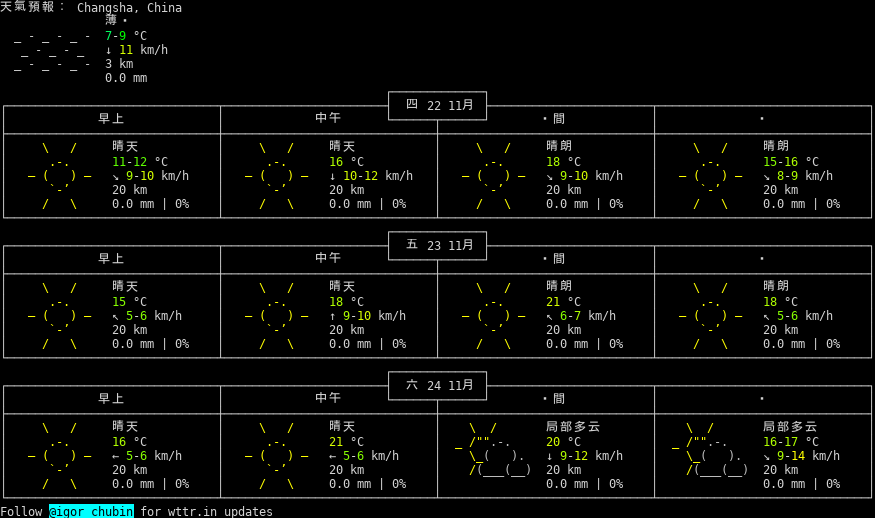
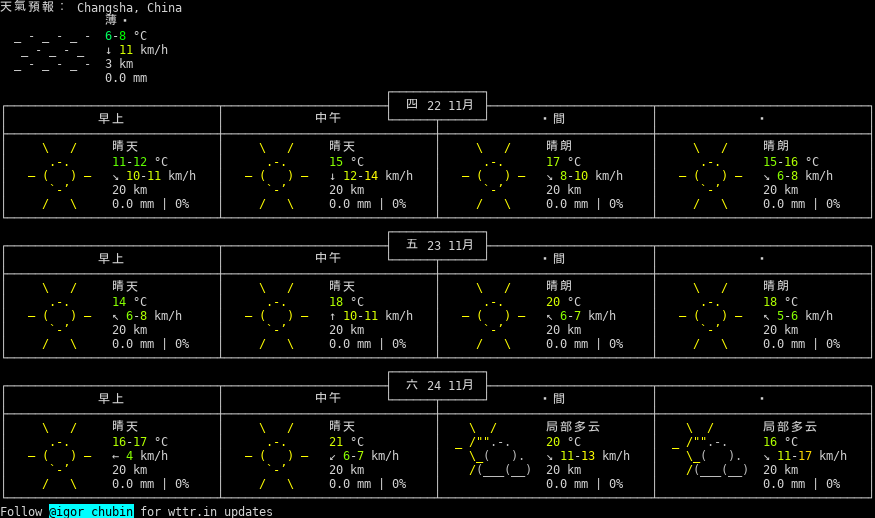
update Today's log:)

diff --git a/README.md b/README.md
@@ -1510,3 +1510,4 @@ My Shell_script learning note
 * 2018年11月22日 星期Thu AM 3:00 CST   天气: 9-11°C (  _`/"".-.     Light Rain Shower, Mist)
 * 2018年11月22日 星期Thu AM 3:20 CST   天气: 9-11°C (  _`/"".-.     Light Rain Shower, Mist)
 * 2018年11月22日 星期Thu AM 3:40 CST   天气: 9-11°C (  _`/"".-.     Light Rain Shower, Mist)
+* 2018年11月22日 星期Thu AM 4:00 CST   天气: 8-11°C (  _`/"".-.     Light Rain Shower, Mist)

diff --git a/weather.md b/weather.md
@@ -5869,3 +5869,7 @@
 
 ![](PNG/20181122.png)
 
+2018年 11月 22日
+
+![](PNG/20181122.png)
+
